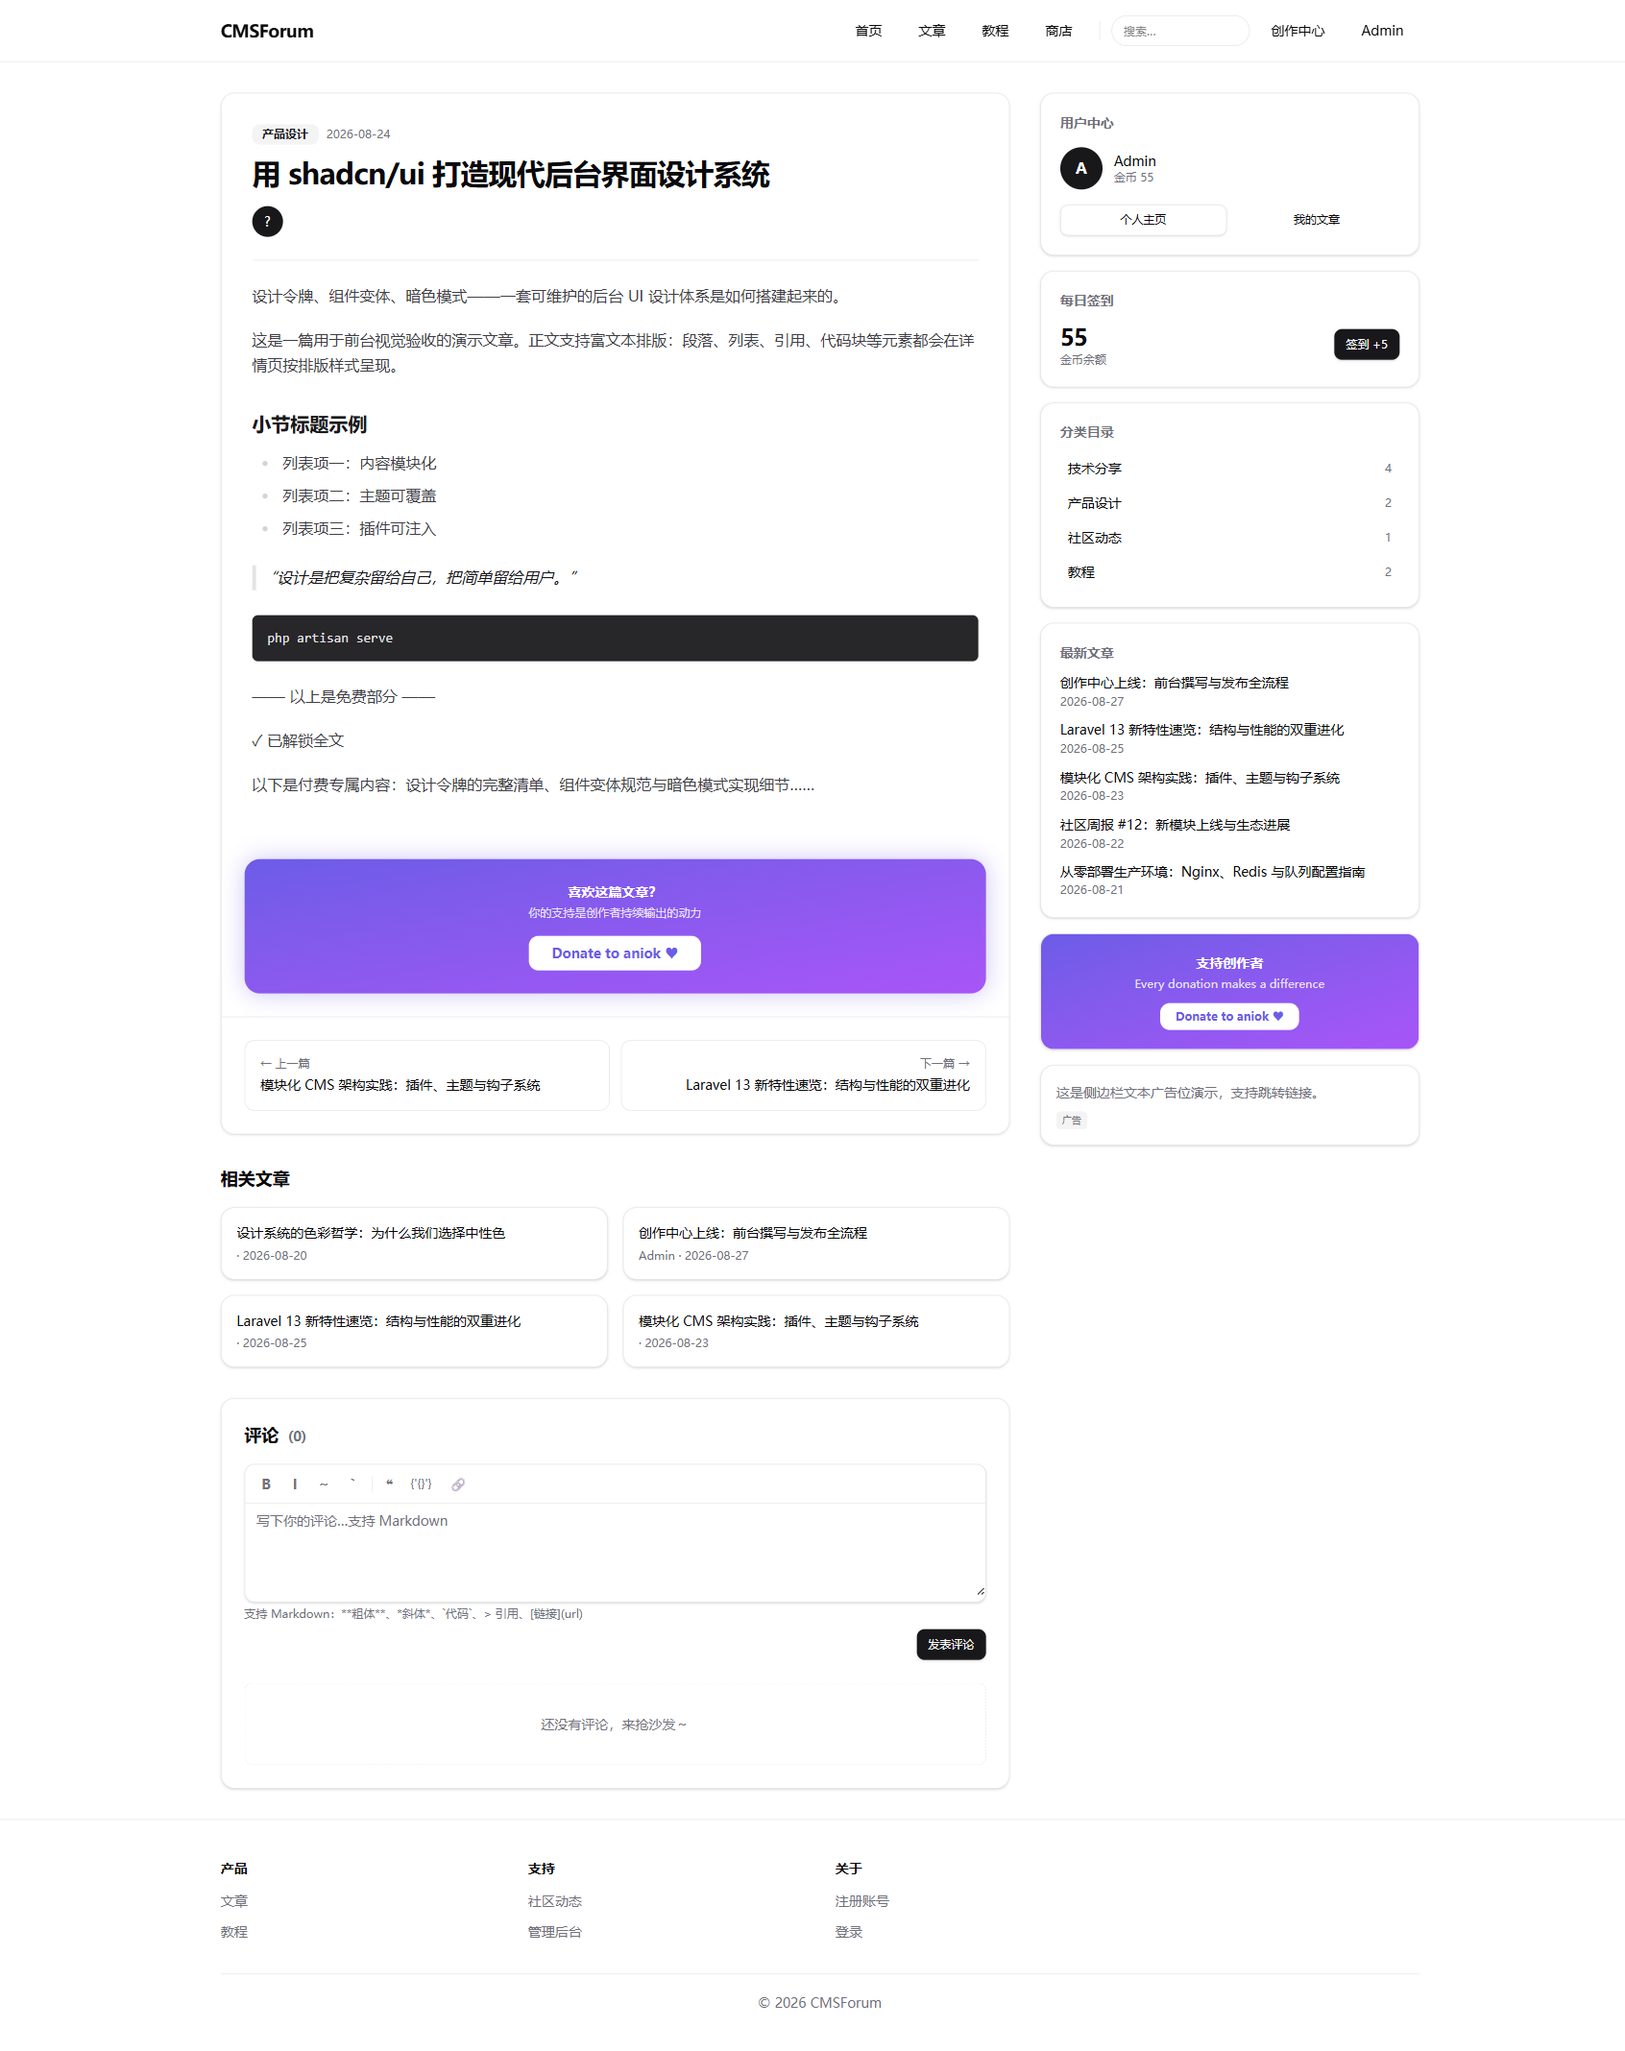
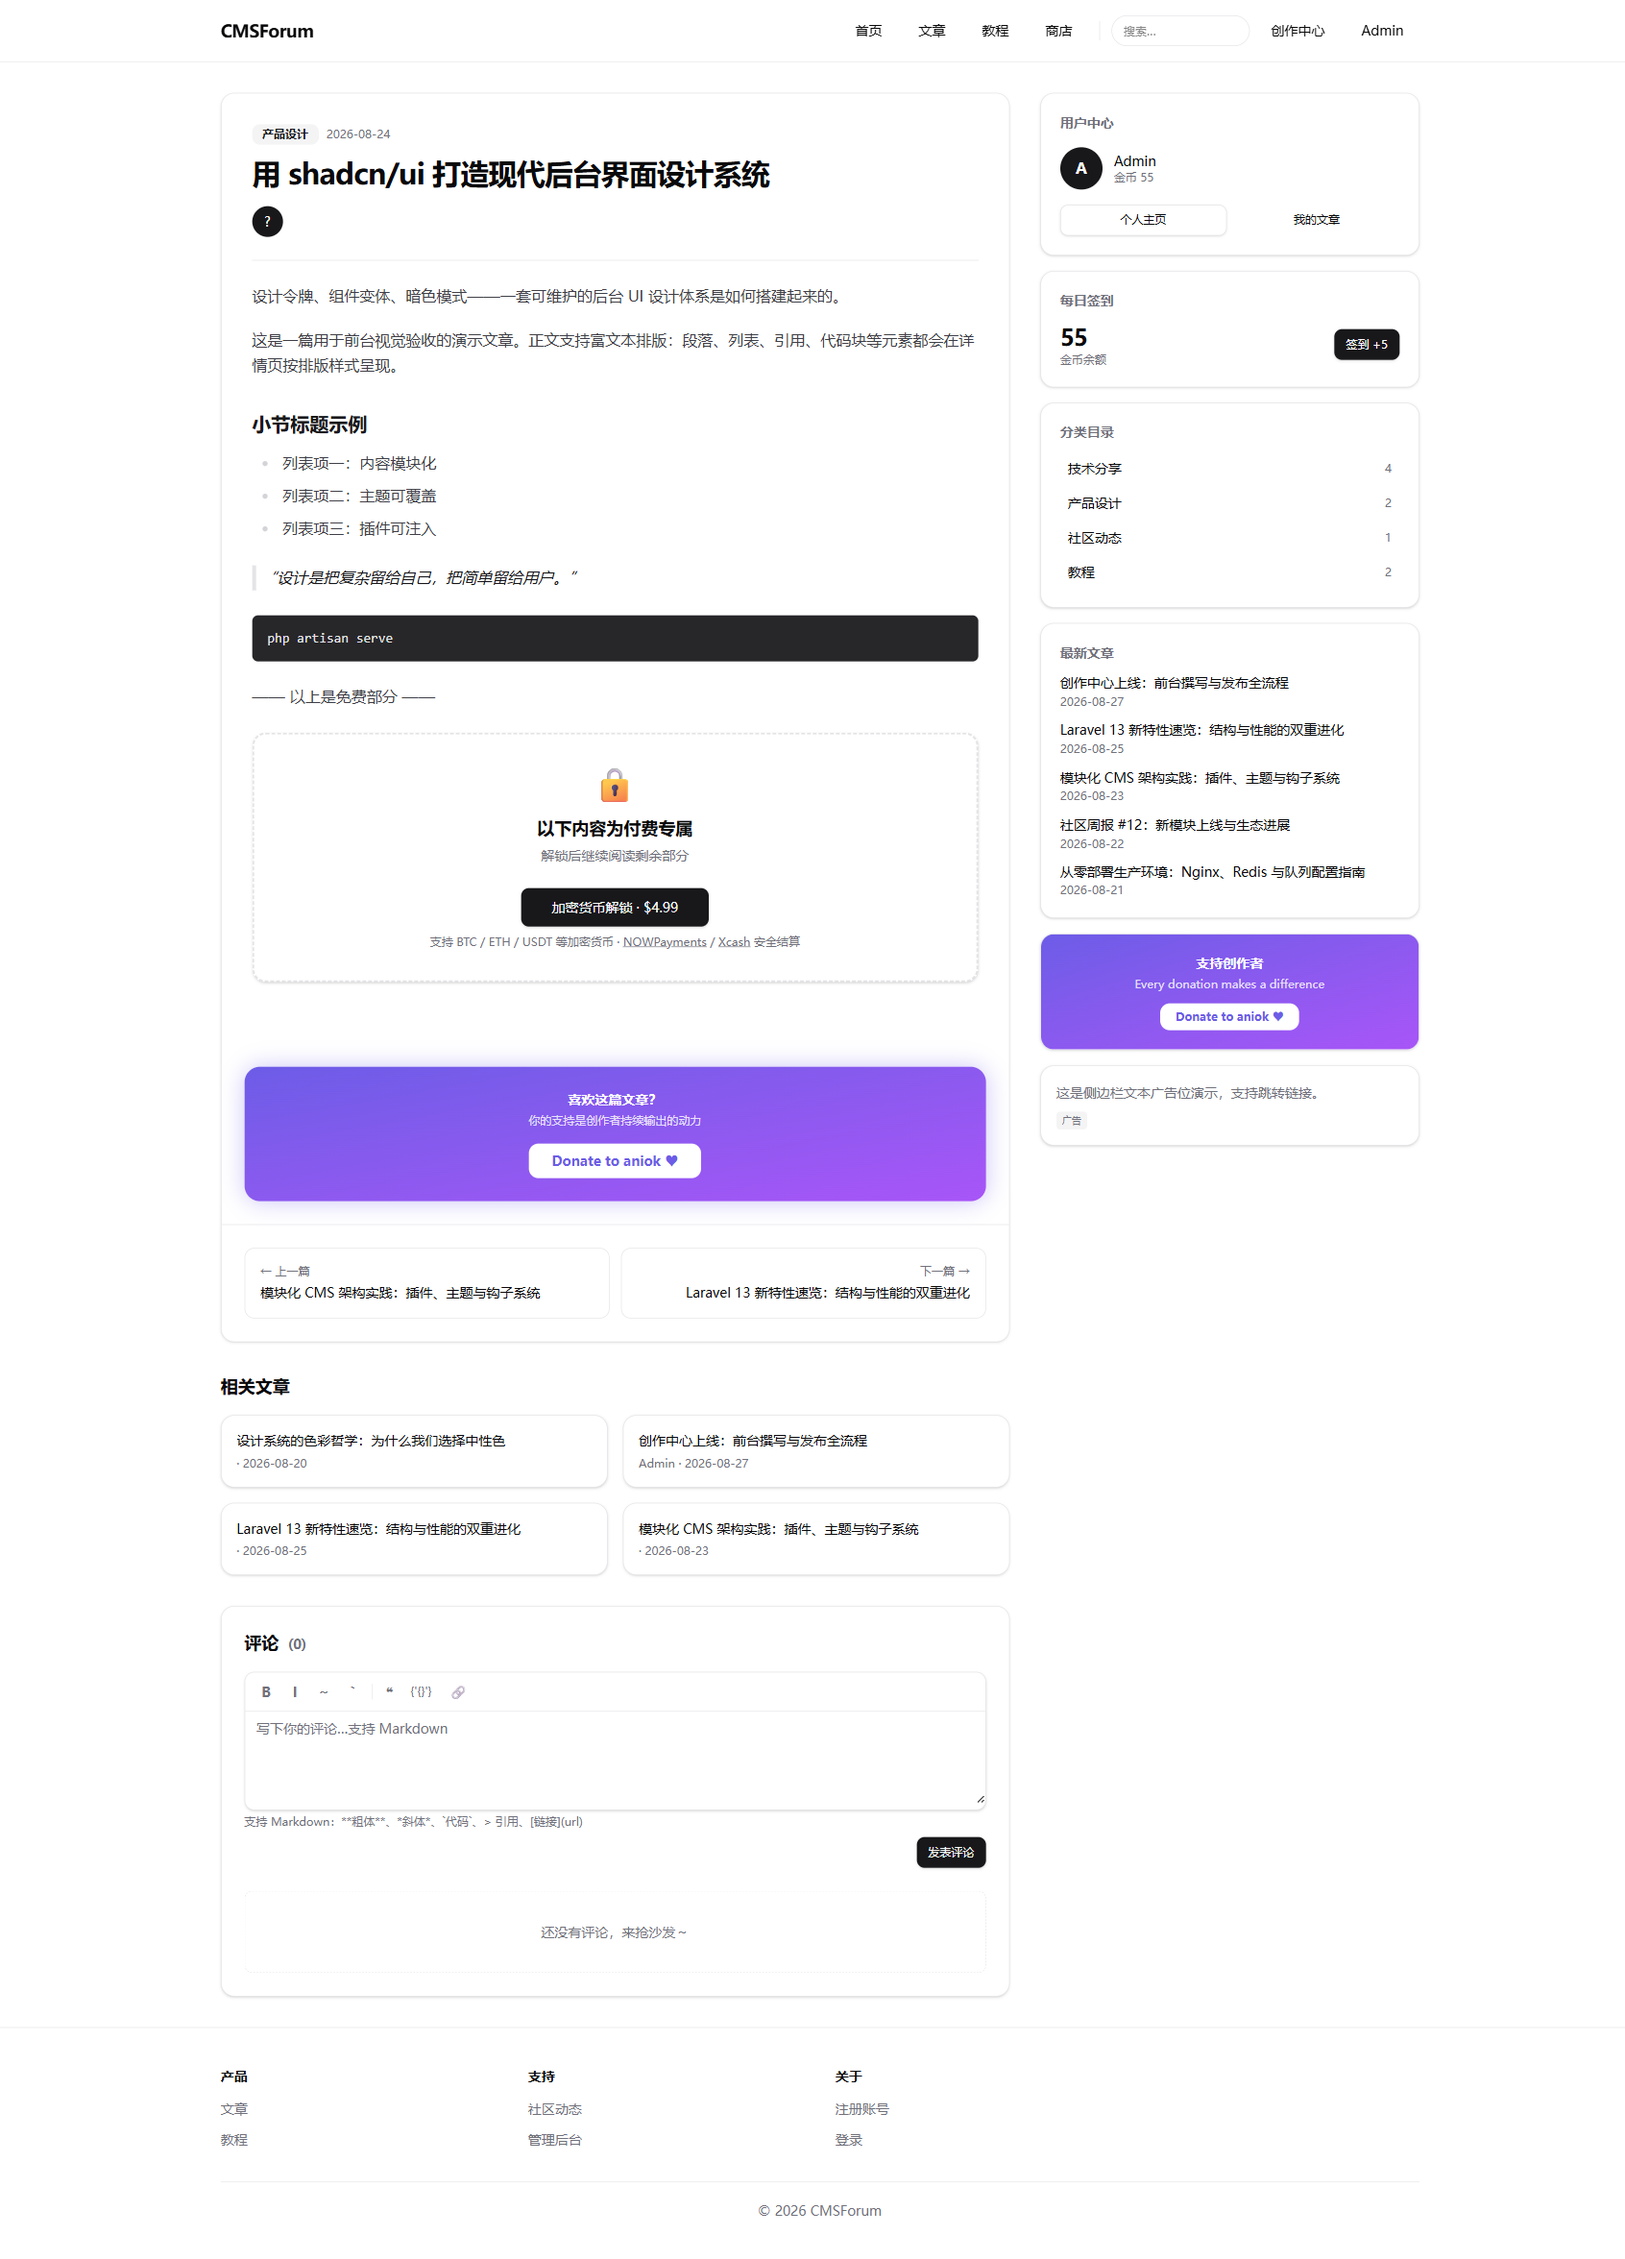
改名 simpleCMS + Vast 支持介绍 + 更新截图
- 仓库更名 simpleCMS（gh 已改，remote 已更新）
- README 中英文：标题改 simpleCMS，新增 Powered by Vast.ai 支持区块
  （非官方支持，作者个人使用，附推荐链接 https://cloud.vast.ai/?ref_id=91181）
- 截图更新：商品列表（5 商品）、商品详情（左图右文）、付费阅读
  （分段付费墙 + 解锁卡）
- composer.json：项目名/描述更新为 simpleCMS

diff --git a/README.en.md b/README.en.md
@@ -1,4 +1,4 @@
-# CMSForum
+# simpleCMS
 
 > [**中文**](README.md) · **English**
 
@@ -47,6 +47,8 @@ The underlying CMS foundation is provided by the [`miran/mksine`](https://github
 | Backend | PHP ^8.3 · Laravel 13.27 · Filament 5.7 · Livewire 4.4 · miran/mksine 1.4 · Filament Shield 4.3 · spatie/laravel-permission 8.3 |
 | Frontend | Vue 3.5 · Inertia 3.7 · Vite 8 · Tailwind CSS 4 · TypeScript |
 | Infrastructure | Horizon 5.48 · Octane 2.19 · Redis (optional) · CoinPayments SDK |
+
+> 🚀 **Powered by Vast.ai** (unofficial support — the author's personal setup): this project is developed, built and demo-hosted on [Vast.ai](https://cloud.vast.ai/?ref_id=91181) GPU cloud servers. Vast.ai is the world's largest decentralized GPU marketplace — rent RTX 4090 / A100 instances by the hour for model inference, CI builds, cloud hosting and more. If you need elastic compute, sign up via [this referral link](https://cloud.vast.ai/?ref_id=91181).
 
 ## 🌱 Prerequisites
 

diff --git a/README.md b/README.md
@@ -1,4 +1,4 @@
-# CMSForum
+# simpleCMS
 
 > **中文** · [English](README.en.md)
 
@@ -47,6 +47,8 @@
 | 后端 | PHP ^8.3 · Laravel 13.27 · Filament 5.7 · Livewire 4.4 · miran/mksine 1.4 · Filament Shield 4.3 · spatie/laravel-permission 8.3 |
 | 前台 | Vue 3.5 · Inertia 3.7 · Vite 8 · Tailwind CSS 4 · TypeScript |
 | 基础设施 | Horizon 5.48 · Octane 2.19 · Redis（可选）· CoinPayments SDK |
+
+> 🚀 **由 Vast.ai 提供算力支持**（非官方支持，作者个人使用）：本项目开发、构建与线上演示跑在 [Vast.ai](https://cloud.vast.ai/?ref_id=91181) 的 GPU 云服务器上。Vast.ai 是全球最大的去中心化 GPU 市场，按小时租用 RTX 4090 / A100 等显卡实例，适合模型推理、CI 构建、云托管等场景。如果你也需要弹性算力，可以通过 [这个推荐链接](https://cloud.vast.ai/?ref_id=91181) 注册。
 
 ## 🌱 基础环境
 
